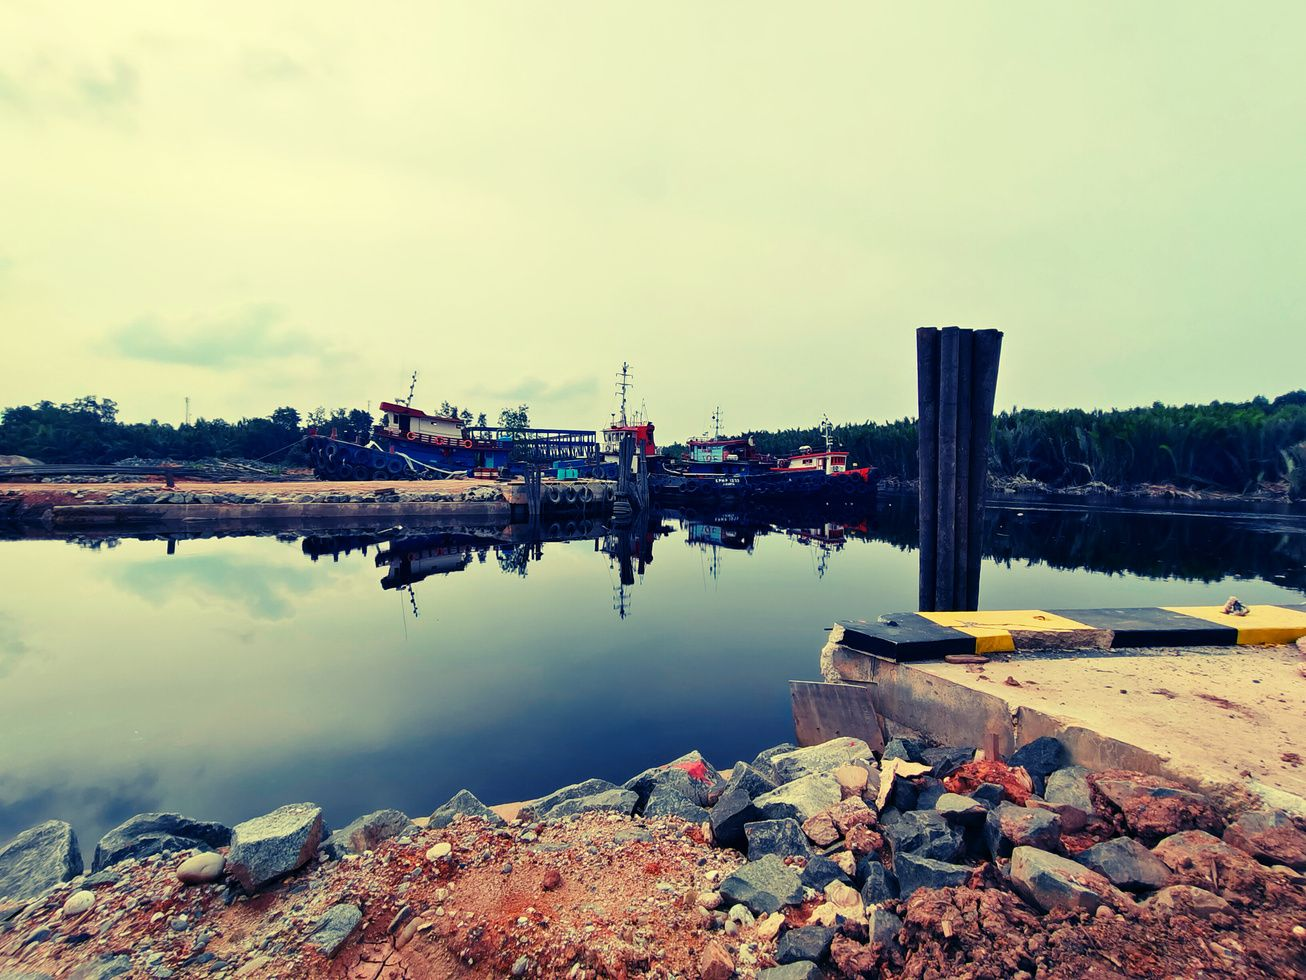
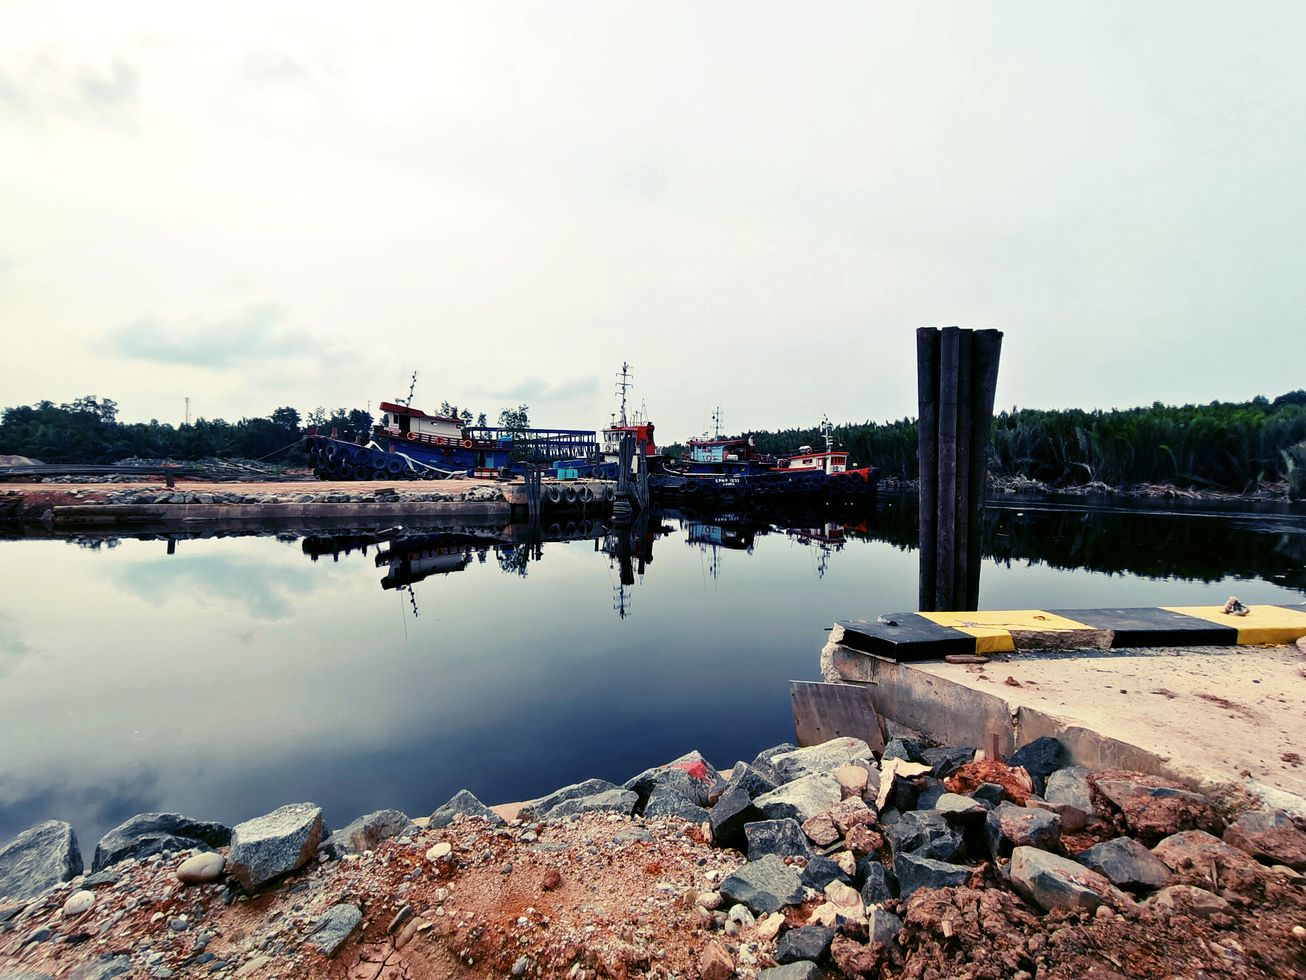
Color-correct site photos and add Visi & Misi to navigation
Neutralise the teal/yellow HDR filter from the compro photos (per-range
white balance, levels, lower saturation) for a more natural, formal look;
the aerial slipway diagram is left as is. Add a Visi & Misi link to the
header and footer menus and keep nav labels on one line at mid widths.

Claude-Session: https://claude.ai/code/session_01N7PvFZyTVamPb1fyLSBNFM

diff --git a/assets/css/style.css b/assets/css/style.css
@@ -104,6 +104,7 @@ p { margin: 0 0 1em; }
 .is-solid .brand-sub { color: var(--muted); }
 
 .site-nav { display: flex; align-items: center; gap: 36px; }
+.site-nav a, .brand-name { white-space: nowrap; }
 .site-nav a {
   position: relative;
   font-size: 0.875rem; font-weight: 500; color: rgba(255,255,255,.88);
@@ -308,6 +309,10 @@ p { margin: 0 0 1em; }
 /* ==========================================================
    Responsive
    ========================================================== */
+@media (max-width: 1180px) {
+  .site-nav { gap: 22px; }
+}
+
 @media (max-width: 1080px) {
   .legal-grid { grid-template-columns: repeat(3, 1fr); }
   .legal-item:nth-child(4) { border-left: 0; }

diff --git a/index.html b/index.html
@@ -33,6 +33,7 @@
     <nav class="site-nav" id="site-nav">
       <a href="#tentang">Tentang</a>
       <a href="#layanan">Layanan</a>
+      <a href="#visi-misi">Visi &amp; Misi</a>
       <a href="#fasilitas">Fasilitas</a>
       <a href="#legalitas">Legalitas</a>
       <a href="#kontak" class="nav-cta">Hubungi Kami</a>
@@ -378,6 +379,7 @@
     <nav class="footer-nav" aria-label="Navigasi footer">
       <a href="#tentang">Tentang</a>
       <a href="#layanan">Layanan</a>
+      <a href="#visi-misi">Visi &amp; Misi</a>
       <a href="#fasilitas">Fasilitas</a>
       <a href="#legalitas">Legalitas</a>
       <a href="#kontak">Kontak</a>
